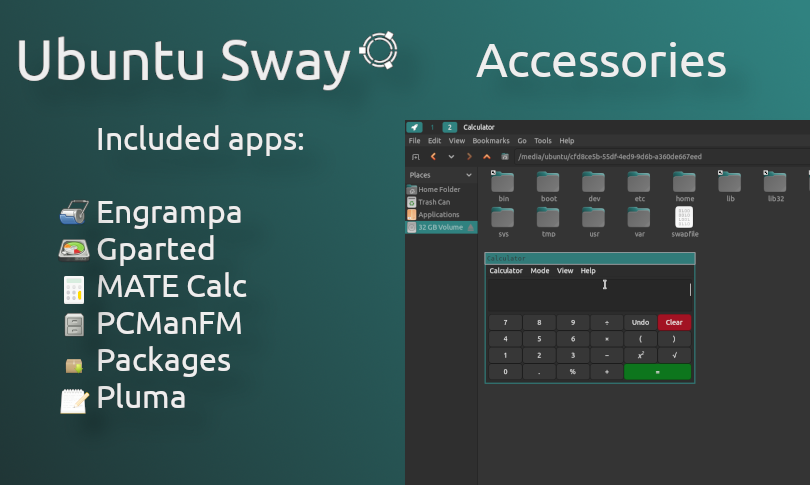
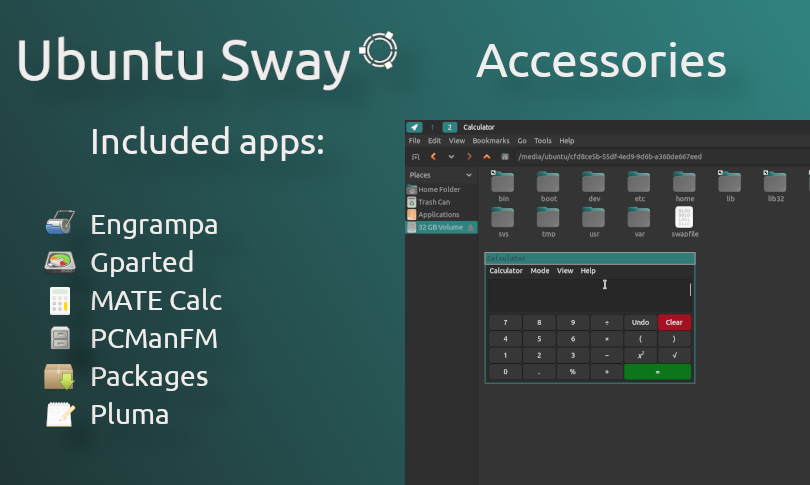
Text improvements

Changed region(s): [[0.0309, 0.4021, 0.3086, 0.8969], [0.0926, 0.2474, 0.4012, 0.3402]]

diff --git a/ubuntusway/branding/ubuntusway/show.qml b/ubuntusway/branding/ubuntusway/show.qml
@@ -91,7 +91,7 @@ Presentation
             height: 485
             fillMode: Image.PreserveAspectFit
             smooth: true
-            source: "Office.png"
+            source: "Productive.png"
         }
     }
     Slide {
